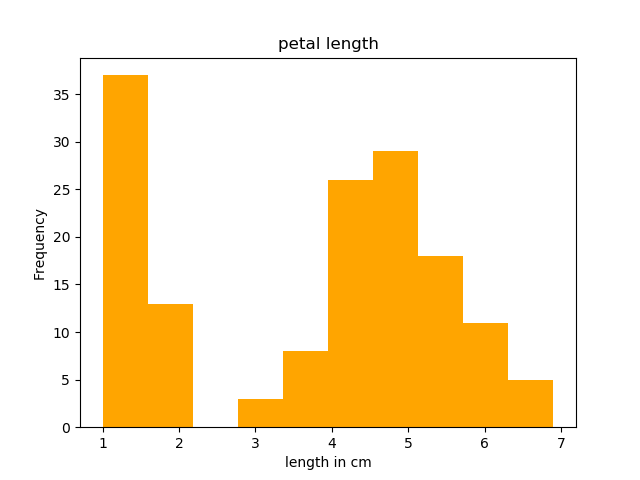
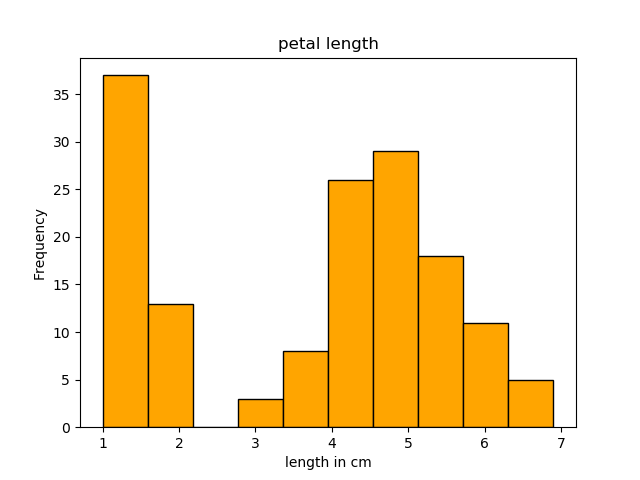
Histogram bin outline "ec=black"

Changed region(s): [[0.375, 0.3125, 0.875, 0.9062], [0.1562, 0.1562, 0.3125, 0.9062], [0.3438, 0.8438, 0.375, 0.9062]]

diff --git a/analysis.py b/analysis.py
@@ -37,28 +37,28 @@ summaryt.to_csv("summary.txt", sep=',')
 
 #plot histogram for each variable and save to .png
 
-plt.hist(df["sepal length"], color="skyblue")
+plt.hist(df["sepal length"], color="skyblue", ec="black")
 plt.title("sepal length")
 plt.xlabel("length in cm")
 plt.ylabel("Frequency")
 plt.savefig("sepal_length.png")
 plt.clf()
 
-plt.hist(df["sepal width"], color="green")
+plt.hist(df["sepal width"], color="green", ec="black")
 plt.title("sepal width")
 plt.xlabel("width in cm")
 plt.ylabel("Frequency")
 plt.savefig("sepal_width.png")
 plt.clf()
 
-plt.hist(df["petal length"], color="orange")
+plt.hist(df["petal length"], color="orange", ec="black")
 plt.title("petal length")
 plt.xlabel("length in cm")
 plt.ylabel("Frequency")
 plt.savefig("petal_length.png")
 plt.clf()
 
-plt.hist(df["petal width"], color="purple")
+plt.hist(df["petal width"], color="purple", ec="black")
 plt.title("petal width")
 plt.xlabel("width in cm")
 plt.ylabel("Frequency")

diff --git a/README.md b/README.md
@@ -68,13 +68,13 @@ dtype:  int64
 `summary = df.describe(include="all")`  
 `summaryt = summary.transpose()`  
   
-|           |count    |mean     |std  |min  |25%   |50%  |75%  |max
-|    ---    |:---:|:---:|:---:|:---:|:---:|:---:|:---:|:---:|   
-**sepal length**  |150.0  |5.8433  |0.8281  |4.3  |5.1  |5.80  |6.4  |7.9
-**sepal width**   |150.0  |3.0573  |0.4359  |2.0  |2.8  |3.00  |3.3  |4.4
-**petal length**  |150.0  |3.7580  |1.7653  |1.0  |1.6  |4.35  |5.1  |6.9
-**petal width**   |150.0  |1.1993  |0.7622  |0.1  |0.3  |1.30  |1.8  |2.5
-**variety** |150 | 3 | Virginica | 50 | NaN | NaN | NaN | NaN | NaN | NaN
+|           |count    |unique | top | freq | mean     |std  |min  |25%   |50%  |75%  |max
+|    ---    |:---:|:---:|:---:|:---:|:---:|:---:|:---:|:---:|:---:|:---:|:---:   
+**sepal length**  |150.0 | NaN | NaN | NaN |5.8433  |0.8281  |4.3  |5.1  |5.80  |6.4  |7.9
+**sepal width**   |150.0 | NaN | NaN | NaN  |3.0573  |0.4359  |2.0  |2.8  |3.00  |3.3  |4.4
+**petal length**  |150.0 | NaN | NaN | NaN  |3.7580  |1.7653  |1.0  |1.6  |4.35  |5.1  |6.9
+**petal width**   |150.0 | NaN | NaN | NaN  |1.1993  |0.7622  |0.1  |0.3  |1.30  |1.8  |2.5
+**variety** |150 | 3 | Virginica | 50 | NaN | NaN | NaN | NaN | NaN | NaN | NaN
   
 ### Write the Summary to a Single Text File
 `summaryt.to_csv("summary.txt", sep=',')`
@@ -93,4 +93,6 @@ From the petal length and less so the petal width histograms we see that one of 
 Introduction and information https://en.wikipedia.org/wiki/Iris_flower_data_set  
 Transpose Function https://note.nkmk.me/en/python-pandas-t-transpose/  
 Analysis of Iris in Python https://medium.com/codebagng/basic-analysis-of-the-iris-data-set-using-python-2995618a6342  
+Histogram Formatting https://stackoverflow.com/questions/42542252/cannot-get-histogram-to-show-separated-bins-with-vertical-lines  
+
 
